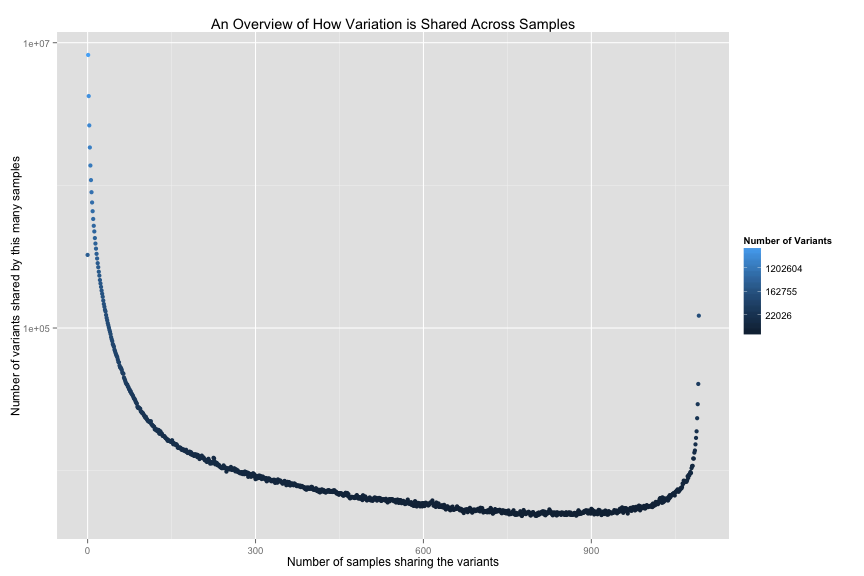
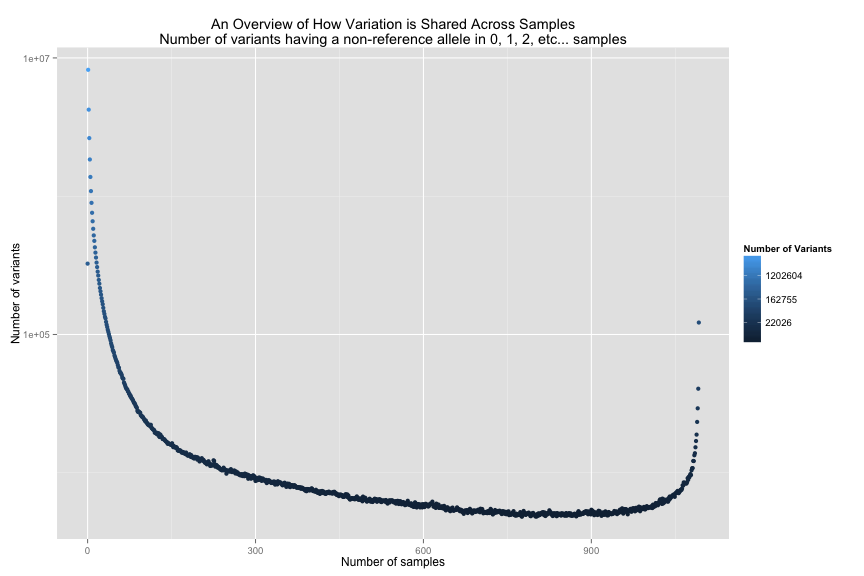
(Hopefully) improved labeling for the plot of shared variation.

diff --git a/1000genomes/README.md b/1000genomes/README.md
@@ -65,7 +65,7 @@ ORDER BY
 
 We see the tabular results:
 <!-- html table generated in R 3.0.2 by xtable 1.7-3 package -->
-<!-- Mon Apr 21 09:36:36 2014 -->
+<!-- Wed Apr 23 11:30:46 2014 -->
 <TABLE border=1>
 <TR> <TH> contig </TH> <TH> num_dbsnp_variants </TH> <TH> num_variants </TH> <TH> frequency </TH>  </TR>
   <TR> <TD> 2 </TD> <TD align="right"> 3301885 </TD> <TD align="right"> 3307592 </TD> <TD align="right"> 0.998275 </TD> </TR>
@@ -127,7 +127,7 @@ Number of rows returned by this query:
 
 Examing the first few rows, we see:
 <!-- html table generated in R 3.0.2 by xtable 1.7-3 package -->
-<!-- Mon Apr 21 09:36:40 2014 -->
+<!-- Wed Apr 23 11:30:52 2014 -->
 <TABLE border=1>
 <TR> <TH> contig </TH> <TH> position </TH> <TH> ids </TH> <TH> ref </TH> <TH> alt </TH> <TH> quality </TH> <TH> filters </TH> <TH> vt </TH>  </TR>
   <TR> <TD> 17 </TD> <TD align="right"> 41196363 </TD> <TD> rs8176320 </TD> <TD> C </TD> <TD> T </TD> <TD align="right"> 100.00 </TD> <TD> PASS </TD> <TD> SNP </TD> </TR>
@@ -176,7 +176,7 @@ Number of rows returned by this query:
 
 Examing the first few rows, we see:
 <!-- html table generated in R 3.0.2 by xtable 1.7-3 package -->
-<!-- Mon Apr 21 09:36:44 2014 -->
+<!-- Wed Apr 23 11:30:57 2014 -->
 <TABLE border=1>
 <TR> <TH> contig </TH> <TH> position </TH> <TH> ids </TH> <TH> ref </TH> <TH> alt </TH> <TH> quality </TH> <TH> filters </TH> <TH> vt </TH> <TH> sample_id </TH> <TH> ploidy </TH> <TH> phased </TH> <TH> first_allele </TH> <TH> second_allele </TH> <TH> genotype_ds </TH> <TH> likelihoods </TH>  </TR>
   <TR> <TD> 17 </TD> <TD align="right"> 41196363 </TD> <TD> rs8176320 </TD> <TD> C </TD> <TD> T </TD> <TD align="right"> 100.00 </TD> <TD> PASS </TD> <TD> SNP </TD> <TD> HG00100 </TD> <TD align="right">   2 </TD> <TD> TRUE </TD> <TD align="right">   0 </TD> <TD align="right">   0 </TD> <TD align="right"> 0.00 </TD> <TD> -0.03,-1.19,-5 </TD> </TR>
@@ -220,7 +220,7 @@ Number of rows returned by this query:
 
 Examing the first few rows, we see that a substantial number of variants are shared by **none** of the samples but a larger number of the variants are shared by only one sample:
 <!-- html table generated in R 3.0.2 by xtable 1.7-3 package -->
-<!-- Mon Apr 21 09:36:49 2014 -->
+<!-- Wed Apr 23 11:31:01 2014 -->
 <TABLE border=1>
 <TR> <TH> num_samples_with_variant </TH> <TH> num_variants_shared_by_this_many_samples </TH>  </TR>
   <TR> <TD align="right">   0 </TD> <TD align="right"> 325354 </TD> </TR>
@@ -233,7 +233,7 @@ Examing the first few rows, we see that a substantial number of variants are sha
 
 Looking at the last few rows in the result, we see that some variants are shared by all samples:
 <!-- html table generated in R 3.0.2 by xtable 1.7-3 package -->
-<!-- Mon Apr 21 09:36:49 2014 -->
+<!-- Wed Apr 23 11:31:01 2014 -->
 <TABLE border=1>
 <TR> <TH> num_samples_with_variant </TH> <TH> num_variants_shared_by_this_many_samples </TH>  </TR>
   <TR> <TD align="right"> 1087 </TD> <TD align="right"> 16971 </TD> </TR>
@@ -247,3 +247,4 @@ Looking at the last few rows in the result, we see that some variants are shared
 And visually:
 <img src="figure/shared_Variants.png" title="plot of chunk shared Variants" alt="plot of chunk shared Variants" style="display: block; margin: auto;" />
 
+At the left edge of the plot we see the data point for the number of variants for which all samples match the reference (X=0).  At the right edge of the plot we see the number of variants for which all samples do _not_ match the reference (X=1,092).  In between we see the counts of variants shared by X samples.
